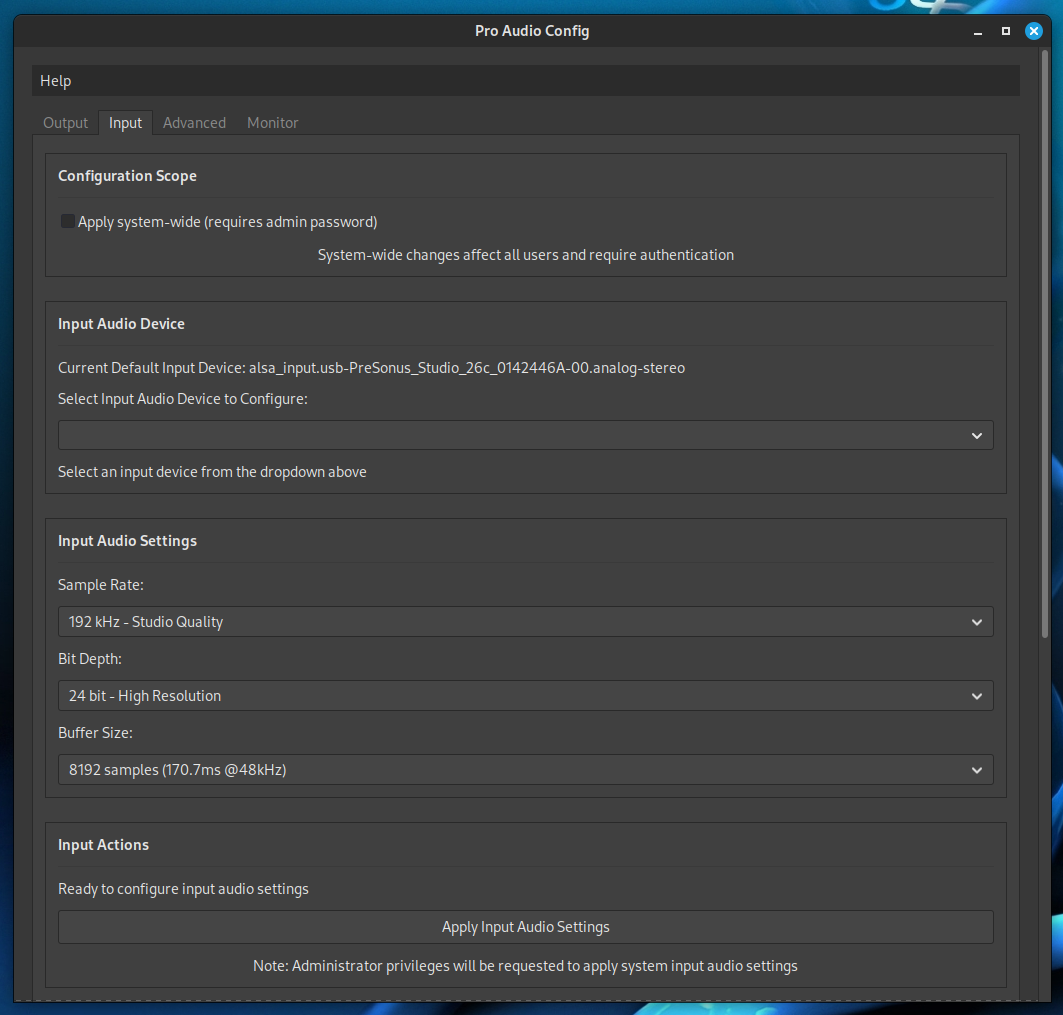
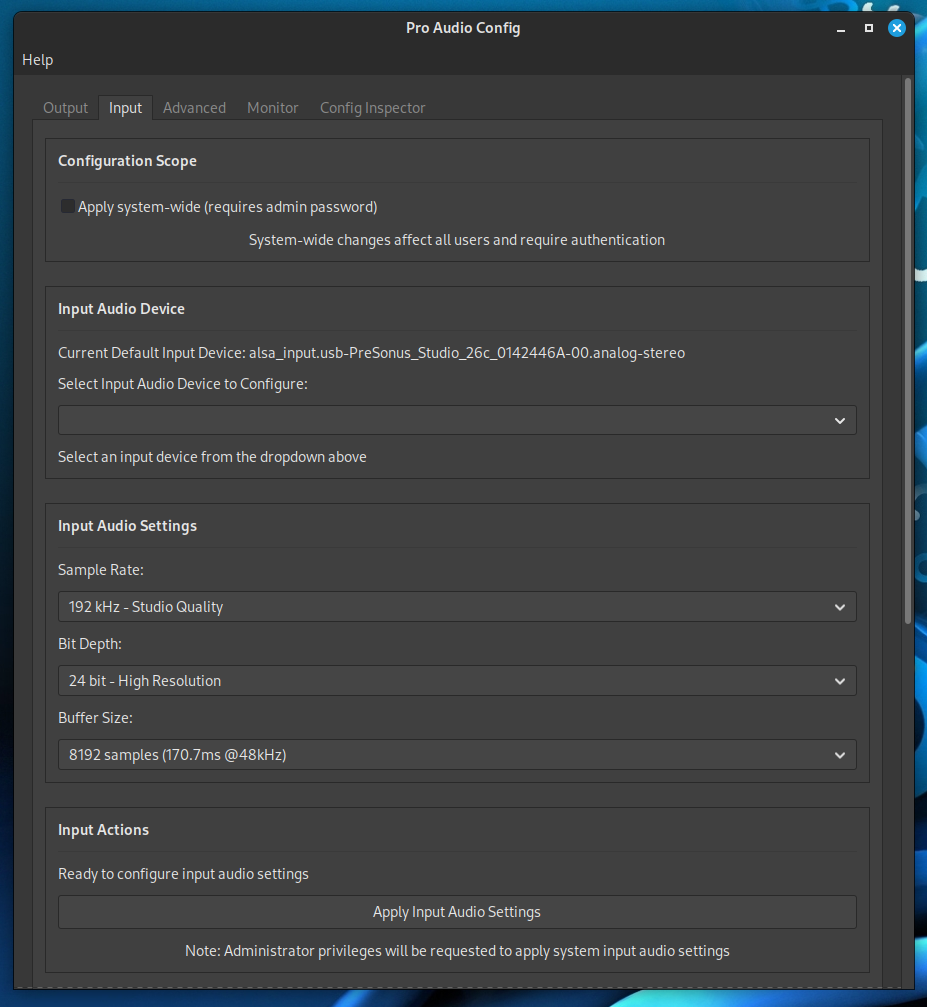
fix(ui): fix menu bar position at window top with proper stacking
Fix the menu bar positioning using a main_vbox layout so it sits
properly at the top of the window instead of inside the scrollable
content area:

- Menu bar packed at top (false, false, 0) - no expand, no fill
- Scrollable content packed below (true, true, 0) - fills remaining space

This gives the application a standard GTK native system tool
appearance that matches Cinnamon, MATE, Xfce, and KDE desktop
conventions.

Update screenshots to reflect the corrected menu bar position.

diff --git a/src/ui/app.rs b/src/ui/app.rs
@@ -1,6 +1,6 @@
 /*
  * Pro Audio Config - AudioApp Module
- * Version: 2.0
+ * Version: 2.1
  * Copyright (c) 2025-2026 Peter Leukanič
  * Under MIT License
  *
@@ -35,50 +35,62 @@ impl AudioApp {
     pub fn new(app: &Application) -> Self {
         let window = ApplicationWindow::new(app);
         window.set_title("Pro Audio Config");
+        window.set_default_size(900, 700);
 
-        // Set window icon from system or development location
+        // Set window icon
         Self::set_window_icon(&window);
 
-        // Create menu bar
-        let menu_bar = Self::create_menu_bar();
+        // ===== MAIN VERTICAL BOX - Stacks menu bar on top of content =====
+        let main_vbox = GtkBox::new(Orientation::Vertical, 0);
 
+        // ===== MENU BAR - Fixed at the very top =====
+        let menu_bar = MenuBar::new();
+
+        let help_menu = Menu::new();
+        let help_menu_item = MenuItem::with_label("Help");
+        help_menu_item.set_submenu(Some(&help_menu));
+
+        let about_item = MenuItem::with_label("About");
+        about_item.connect_activate(|_| {
+            show_about_dialog();
+        });
+
+        help_menu.append(&about_item);
+        menu_bar.append(&help_menu_item);
+
+        // Pack menu bar at the top of the main vbox
+        main_vbox.pack_start(&menu_bar, false, false, 0);
+
+        // ===== SCROLLABLE CONTENT AREA =====
         let scrolled_window = ScrolledWindow::new(None::<&Adjustment>, None::<&Adjustment>);
         scrolled_window.set_propagate_natural_height(true);
         scrolled_window.set_propagate_natural_width(true);
 
-        let main_box = GtkBox::new(Orientation::Vertical, 12);
-        main_box.set_margin_top(18);
-        main_box.set_margin_bottom(18);
-        main_box.set_margin_start(18);
-        main_box.set_margin_end(18);
-
-        // Add menu bar to main interface
-        main_box.pack_start(&menu_bar, false, false, 0);
+        let content_box = GtkBox::new(Orientation::Vertical, 12);
+        content_box.set_margin_top(18);
+        content_box.set_margin_bottom(18);
+        content_box.set_margin_start(18);
+        content_box.set_margin_end(18);
 
         // ===== CREATE NOTEBOOK (TABS) =====
         let notebook = Notebook::new();
 
-        // Create output tab
         let output_tab = AudioTab::new(TabType::Output);
         let output_label = Label::new(Some("Output"));
         notebook.append_page(&output_tab.container, Some(&output_label));
 
-        // Create input tab
         let input_tab = AudioTab::new(TabType::Input);
         let input_label = Label::new(Some("Input"));
         notebook.append_page(&input_tab.container, Some(&input_label));
 
-        // Create advanced tab
         let advanced_tab = AdvancedTab::new();
         let advanced_label = Label::new(Some("Advanced"));
         notebook.append_page(&advanced_tab.container, Some(&advanced_label));
 
-        // Create monitoring tab
         let monitoring_tab = MonitoringTab::new();
         let monitoring_label = Label::new(Some("Monitor"));
         notebook.append_page(&monitoring_tab.container, Some(&monitoring_label));
 
-        // Create config-inspector tab
         let config_inspector_tab = ConfigInspectorTab::new();
         let config_inspector_label = Label::new(Some("Config Inspector"));
         notebook.append_page(
@@ -86,9 +98,14 @@ impl AudioApp {
             Some(&config_inspector_label),
         );
 
-        main_box.pack_start(&notebook, true, true, 0);
-        scrolled_window.add(&main_box);
-        window.add(&scrolled_window);
+        content_box.pack_start(&notebook, true, true, 0);
+        scrolled_window.add(&content_box);
+
+        // Pack scrollable content below the menu bar
+        main_vbox.pack_start(&scrolled_window, true, true, 0);
+
+        // Add the main vbox to the window
+        window.add(&main_vbox);
 
         let app_state = Self {
             window,
@@ -100,13 +117,8 @@ impl AudioApp {
             config_inspector_tab,
         };
 
-        // ===== CONNECT SIGNALS =====
         app_state.setup_signals();
-
-        // ===== CONNECT ADVANCED TAB SIGNALS =====
         app_state.setup_advanced_signals();
-
-        // ===== DETECT ALL DEVICES AND CURRENT SETTINGS =====
         app_state.initialize_tabs();
 
         app_state
@@ -114,21 +126,9 @@ impl AudioApp {
 
     fn set_window_icon(window: &ApplicationWindow) {
         let icon_paths = [
-            // System installation paths (multiple sizes)
-            "/usr/share/icons/hicolor/16x16/apps/pro-audio-config.png",
             "/usr/share/icons/hicolor/48x48/apps/pro-audio-config.png",
-            "/usr/share/icons/hicolor/32x32/apps/pro-audio-config.png",
-            "/usr/share/icons/hicolor/256x256/apps/pro-audio-config.png",
-            // Development paths
-            "icons/48x48/pro-audio-config.png",
-            "icons/32x32/pro-audio-config.png",
             "icons/icon.png",
             "icon.png",
-            "../icons/icon.png",
-            "./icons/icon.png",
-            // Alternative system paths
-            "/usr/share/icons/hicolor/48x48/apps/pro-audio-config.png",
-            "/usr/local/share/icons/hicolor/48x48/apps/pro-audio-config.png",
         ];
 
         for path in &icon_paths {
@@ -139,28 +139,7 @@ impl AudioApp {
         }
     }
 
-    fn create_menu_bar() -> MenuBar {
-        let menu_bar = MenuBar::new();
-
-        // Create Help menu
-        let help_menu = Menu::new();
-        let help_menu_item = MenuItem::with_label("Help");
-        help_menu_item.set_submenu(Some(&help_menu));
-
-        // Create About item
-        let about_item = MenuItem::with_label("About");
-        about_item.connect_activate(|_| {
-            show_about_dialog();
-        });
-
-        help_menu.append(&about_item);
-        menu_bar.append(&help_menu_item);
-
-        menu_bar
-    }
-
     fn initialize_tabs(&self) {
-        // Initialize both tabs with the same pattern
         self.output_tab.detect_all_devices();
         self.input_tab.detect_all_devices();
         self.output_tab.detect_current_settings();

diff --git a/src/ui/dialogs.rs b/src/ui/dialogs.rs
@@ -1,6 +1,6 @@
 /*
  * Pro Audio Config - Dialogs Module
- * Version: 2.0
+ * Version: 2.1
  * Copyright (c) 2025-2026 Peter Leukanič
  * Under MIT License
  *
@@ -63,9 +63,9 @@ pub fn show_about_dialog() {
 
     dialog.set_title("About Pro Audio Config");
     dialog.set_program_name("Pro Audio Config");
-    dialog.set_version(Some("2.0"));
+    dialog.set_version(Some("2.1"));
     dialog.set_website(Some("https://github.com/Peter-L-SVK/pro_audio_config"));
-    dialog.set_copyright(Some("Copyright © 2025 Peter Leukanič"));
+    dialog.set_copyright(Some("Copyright © 2025-2026 Peter Leukanič"));
     dialog.set_authors(&["Peter Leukanič"]);
     dialog.set_comments(Some(
         "Professional audio configuration tool for Linux\nWritten in Rust programming language and Gtk-3.0",

diff --git a/src/audio.rs b/src/audio.rs
@@ -1,6 +1,6 @@
 /*
  * Pro Audio Config - Audio Configuration Module
- * Version: 2.0
+ * Version: 2.1
  * Copyright (c) 2025-2026 Peter Leukanič
  * Under MIT License
  * Feel free to share and modify

diff --git a/src/ui/components.rs b/src/ui/components.rs
@@ -1,6 +1,6 @@
 /*
  * Pro Audio Config - UI Components Module
- * Version: 2.0
+ * Version: 2.1
  * Copyright (c) 2025-2026 Peter Leukanič
  * Under MIT License
  * Feel free to share and modify

diff --git a/src/ui/constants.rs b/src/ui/constants.rs
@@ -1,6 +1,6 @@
 /*
  * Pro Audio Config - UI Constants Module
- * Version: 2.0
+ * Version: 2.1
  * Copyright (c) 2025-2026 Peter Leukanič
  * Under MIT License
  * Feel free to share and modify

diff --git a/src/ui/preferences.rs b/src/ui/preferences.rs
@@ -1,6 +1,6 @@
 /*
  * Pro Audio Config - Preferences Module
- * Version: 2.0
+ * Version: 2.1
  * Copyright (c) 2025-2026 Peter Leukanič
  * Under MIT License
  * Feel free to share and modify

diff --git a/src/ui/helpers.rs b/src/ui/helpers.rs
@@ -1,6 +1,6 @@
 /*
  * Pro Audio Config - UI Helpers Module
- * Version: 2.0
+ * Version: 2.1
  * Copyright (c) 2025-2026 Peter Leukanič
  * Under MIT License
  * Feel free to share and modify

diff --git a/src/ui/tab_types.rs b/src/ui/tab_types.rs
@@ -1,6 +1,6 @@
 /*
  * Pro Audio Config - Tab Types Module
- * Version: 2.0
+ * Version: 2.1
  * Copyright (c) 2025-2026 Peter Leukanič
  * Under MIT License
  * Feel free to share and modify

diff --git a/src/ui/mod.rs b/src/ui/mod.rs
@@ -1,6 +1,6 @@
 /*
  * Pro Audio Config - UI Module
- * Version: 2.0
+ * Version: 2.1
  * Copyright (c) 2025-2026 Peter Leukanič
  * Under MIT License
  * Feel free to share and modify

diff --git a/src/lib.rs b/src/lib.rs
@@ -1,6 +1,6 @@
 /*
  * Pro Audio Config - Library
- * Version: 2.0
+ * Version: 2.1
  * Copyright (c) 2025-2026 Peter Leukanič
  * Under MIT License
  * Feel free to share and modify

diff --git a/src/utils.rs b/src/utils.rs
@@ -1,6 +1,6 @@
 /*
  * Pro Audio Config - Utils
- * Version: 2.0
+ * Version: 2.1
  * Copyright (c) 2025-2026 Peter Leukanič
  * Under MIT License
  * Feel free to share and modify

diff --git a/src/config_inspector.rs b/src/config_inspector.rs
@@ -1,6 +1,6 @@
 /*
  * Pro Audio Config - Configuration Inspector Module
- * Version: 2.0
+ * Version: 2.1
  * Copyright (c) 2025-2026 Peter Leukanič
  * Under MIT License
  *
